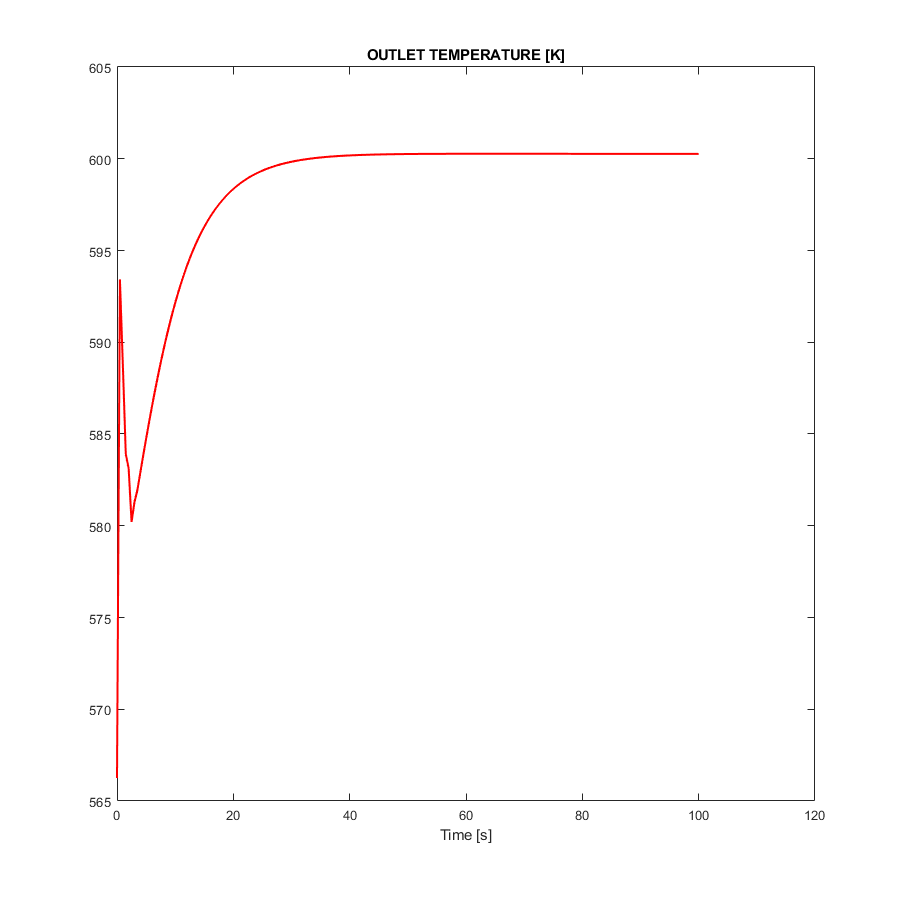
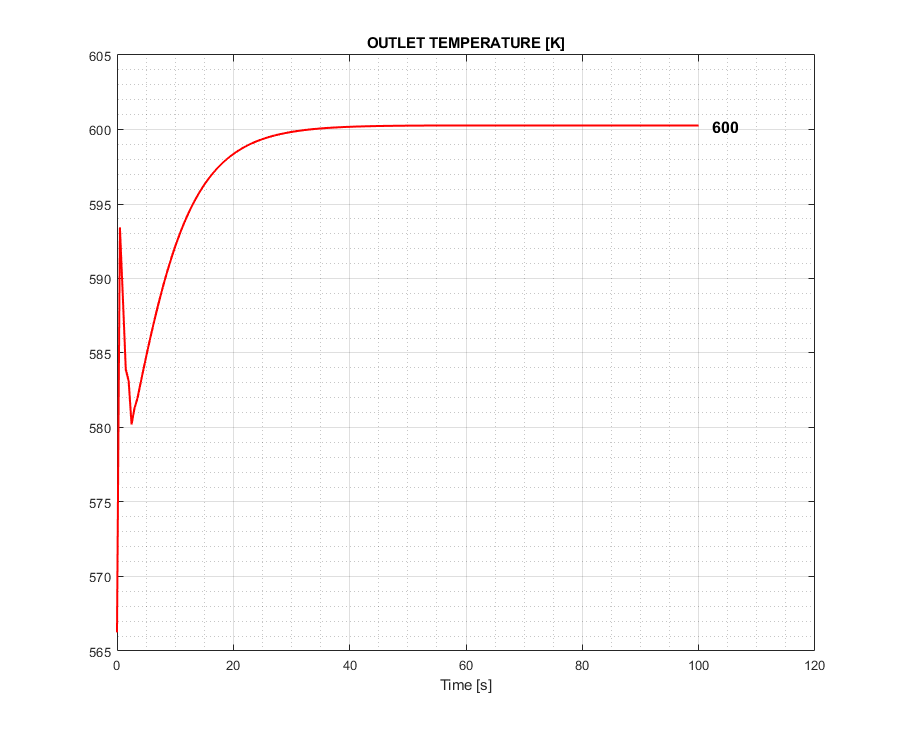
update

diff --git a/Modelli/PWR/analysis/analyze.html b/Modelli/PWR/analysis/analyze.html
@@ -120,7 +120,7 @@ T_max_fuel_axial = T_max_fuel_axial(:,22:71);
 
 % REPLACE_WITH_DASH_DASHREPLACE_WITH_DASH_DASH AXIAL PROFILE HT MODE REPLACE_WITH_DASH_DASHREPLACE_WITH_DASH_DASHREPLACE_WITH_DASH_DASH
 HTMODE_axial = table2array(data);
-HTMODE_axial = HTMODE_axial(:, 72:120);
+HTMODE_axial = HTMODE_axial(:, 72:121);
 
 
 
@@ -131,15 +131,21 @@ HTMODE_axial = HTMODE_axial(:, 72:120);
 %                                                            %
 %%%%%%%%%%%%%%%%%%%%%%%%%%%%%%%%%%%%%%%%%%%%%%%%%%%%%%%%%%%%%%
 
-% REPLACE_WITH_DASH_DASHREPLACE_WITH_DASH_DASHTOTAL POWER REPLACE_WITH_DASH_DASHREPLACE_WITH_DASH_DASH-
+% REPLACE_WITH_DASH_DASHREPLACE_WITH_DASH_DASH TOTAL POWER REPLACE_WITH_DASH_DASHREPLACE_WITH_DASH_DASH-
 figure('Position', [10 10 900 900])
 plot(time,power, 'LineWidth', 1.3, 'Color', 'r');
+str = strcat({'   '}, num2str(power(end),3));
+text(time(end), power(end), str, "FontSize", 12, 'FontWeight','bold');
+grid on, grid minor
 xlabel('Time [s]')
 title('TOTAL POWER EXCHANGED [kW]')
 
-% REPLACE_WITH_DASH_DASHREPLACE_WITH_DASH_DASHOUTLET TEMPERATURE REPLACE_WITH_DASH_DASH
+% REPLACE_WITH_DASH_DASH- -OUTLET TEMPERATURE REPLACE_WITH_DASH_DASHREPLACE_WITH_DASH_DASH
 figure('Position', [10 10 900 900])
 plot(time,T_out, 'LineWidth', 1.3, 'Color', 'r');
+str = strcat({'   '}, num2str(T_out(end),3));
+text(time(end), T_out(end), str, "FontSize", 12, 'FontWeight','bold');
+grid on, grid minor
 xlabel('Time [s]')
 title('OUTLET TEMPERATURE [K]')
 
@@ -150,6 +156,13 @@ plot(time,T_fuel_max_do, 'LineWidth', 1.3, 'Color', 'b');
 plot(time,T_fuel_max_med, 'LineWidth', 1.3, 'Color', 'g');
 plot(time,T_fuel_max_up, 'LineWidth', 1.3, 'Color', 'r');
 hold off
+str = strcat({'   '}, num2str(T_fuel_max_med(end),3));
+text(time(end), T_fuel_max_med(end), str, "FontSize", 12, 'FontWeight','bold');
+str = strcat({'   '}, num2str(T_fuel_max_do(end),3));
+text(time(end), T_fuel_max_do(end), str, "FontSize", 12, 'FontWeight','bold');
+str = strcat({'   '}, num2str(T_fuel_max_up(end),3));
+text(time(end), T_fuel_max_up(end), str, "FontSize", 12, 'FontWeight','bold');
+grid on, grid minor
 legend('bottom', 'center', 'top')
 xlabel('Time [s]')
 title('MAX FUEL TEMPERATURE [K]')
@@ -161,6 +174,13 @@ plot(time,T_clad_max_do, 'LineWidth', 1.3, 'Color', 'b');
 plot(time,T_clad_max_med, 'LineWidth', 1.3, 'Color', 'g');
 plot(time,T_clad_max_up, 'LineWidth', 1.3, 'Color', 'r');
 hold off
+str = strcat({'   '}, num2str(T_clad_max_do(end),3));
+text(time(end), T_clad_max_do(end), str, "FontSize", 12, 'FontWeight','bold');
+str = strcat({'   '}, num2str(T_clad_max_med(end),3));
+text(time(end), T_clad_max_med(end), str, "FontSize", 12, 'FontWeight','bold');
+str = strcat({'   '}, num2str(T_clad_max_up(end),3));
+text(time(end), T_clad_max_up(end), str, "FontSize", 12, 'FontWeight','bold');
+grid on, grid minor
 legend('bottom', 'center', 'top')
 xlabel('Time [s]')
 title('MAX CLAD TEMPERATURE [K]')

diff --git a/Modelli/PWR/analysis/analyze.m b/Modelli/PWR/analysis/analyze.m
@@ -121,7 +121,7 @@ axial_plot(T_max_fuel_axial(end,:), false, 'Axial Profile - Max Fuel Temperature
 
 % ----- AXIAL PROFILE HTMODE -------
 figure('Position', [10 10 300 900])
-htmode_plot(HTMODE_axial(end,:), false, 'Axial Profile - Heat Transfer Mode', '', 1, false)
+htmode_plot(HTMODE_axial(end,:), false, 'Axial Profile - Heat Transfer Mode', '', 1)
 
 % ----- ANIMATION PROFILE MAX TEMP FUEL -------
 % figure('Position', [10 10 300 900])
@@ -129,7 +129,7 @@ htmode_plot(HTMODE_axial(end,:), false, 'Axial Profile - Heat Transfer Mode', ''
 
 % ----- ANIMATION PROFILE HTMODE -------
 % figure('Position', [10 10 300 900])
-% htmode_plot(horzcat(time, HTMODE_axial), true, 'Animation Profile - Heat Transfer Mode', '', 1, false)
+% htmode_plot(horzcat(time, HTMODE_axial), true, 'Animation Profile - Heat Transfer Mode', '', 1)
 
 % ----- ANIMATION PROFILE RADIAL TEMP FUEL ------
 % figure(10)

diff --git a/Modelli/BWR/analysis/analyze.m b/Modelli/BWR/analysis/analyze.m
@@ -148,8 +148,8 @@ htmode_plot(HTMODE_axial(end,:), false, 'Axial Profile - Heat Transfer Mode', ''
 % axial_plot(horzcat(time, T_max_fuel_axial), true, 'Animation Profile - Max Fuel Temperature', 'Fuel Temperature [K]', 3000)
 
 % ----- ANIMATION PROFILE HTMODE -------
-% figure('Position', [10 10 300 900])
-% htmode_plot(horzcat(time, HTMODE_axial), true, 'Animation Profile - Heat Transfer Mode', '', 1)
+figure('Position', [10 10 300 900])
+htmode_plot(horzcat(time, HTMODE_axial), true, 'Animation Profile - Heat Transfer Mode', '', 1)
 
 % ----- ANIMATION PROFILE RADIAL TEMP FUEL ------
 % figure(10)

diff --git a/utils/other/axial_plot.m b/utils/other/axial_plot.m
@@ -13,6 +13,7 @@ if animate
     h = animatedline('LineWidth', 1.5, 'Color', 'r');
     grid on
     grid minor
+    ylim([1/length(data) 1])
     xlim([0 xlim_value])
     xlabel(xlable_string)
     title(title_string)
@@ -30,6 +31,7 @@ if animate
     end
 else
     plot(data,(1:length(data))./length(data), 'LineWidth', 1.5, 'Color', 'r')
+    ylim([1/length(data) 1])
     xlim([0 xlim_value])
     xlabel(xlable_string)
     title(title_string)

diff --git a/utils/other/htmode_plot.m b/utils/other/htmode_plot.m
@@ -23,6 +23,8 @@ if animate
         hold on
         for j=1:length(data(i,:))
           patch([0 100 100 0], [j-1 j-1 j j]./length(data(i,:)), ht_colors(data(i,j),:), 'LineStyle', 'none')
+          text(20,(i-0.5)/length(data),ht_texts(data(i)), 'FontSize', 8, 'FontWeight','bold')
+          text(70,(i-0.5)/length(data),ht_texts(data(i)), 'FontSize', 8, 'FontWeight','bold')
         end
         hold off
         alpha(.75)
